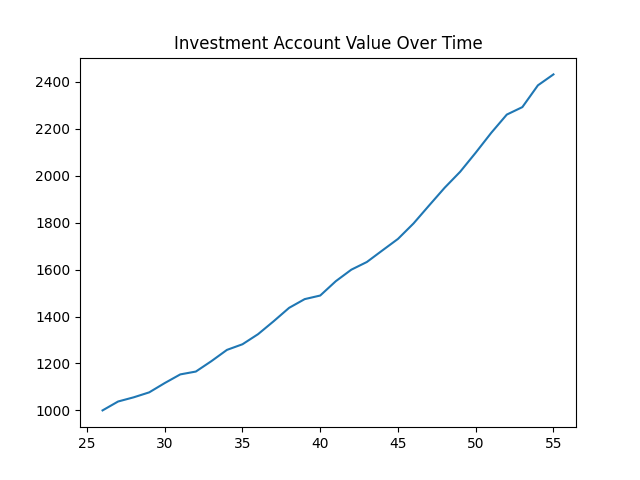
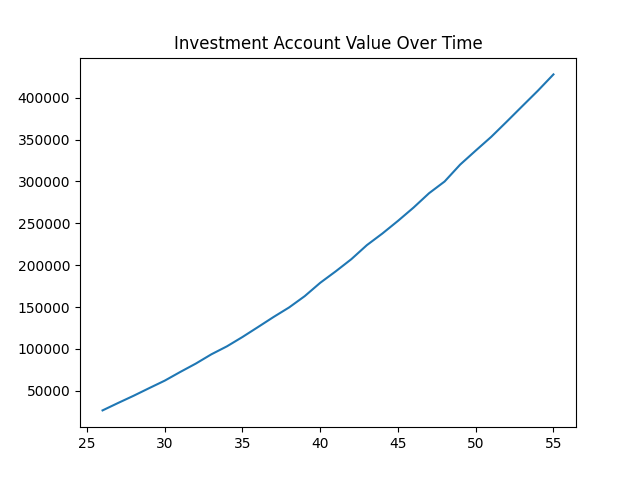
Added in logarithmic decay of investment return as you approach retirement. I have named this: progressive conservatism.

diff --git a/investment_accounts.py b/investment_accounts.py
@@ -1,4 +1,6 @@
 import numpy as np
+import matplotlib as mpl
+import matplotlib.pyplot as plt
 
 class investment_account:
 
@@ -7,13 +9,18 @@ class investment_account:
         self.principal = principal
         print("Initialized investment account named " + self.name )
 
-    def simulate(self, return_range, mean, std_dev, sim_length):
+    def simulate(self, principal_update, return_range, means, std_devs, sim_length):
         # the goal here is to implement monte carlo simulations eventually, but to get this running I just want to plug in some pretty simple exponential growth
 
         # assume the return range is normally distributed about the mean with given std_dev
-        return_by_year = np.random.normal(mean, std_dev, (sim_length, 1))
-        # min_return_range = return_range[0]
-        # max_return_range = return_range[1]
+        means_by_year, std_devs_by_year = self.model_progressive_conservatism(means, std_devs, sim_length)
+        return_by_year = np.zeros((sim_length,1))
+        for index in range(0, sim_length):
+            return_by_year[index] = np.random.normal(means_by_year[index], std_devs_by_year[index],1)
+        plt.figure()
+        plt.plot(np.arange(26,56,1), return_by_year)
+        plt.title("Investment Account Yearly Return Over Time")
+        plt.savefig("account_return_over_time.png")
 
         # just working with the minimum return range now, and I'll assume it's compounded continuously (most optimal)
         account_value = np.zeros((sim_length,1))
@@ -21,6 +28,18 @@ class investment_account:
             if index == 0:
                 account_value[index] = self.principal
             else:
-                account_value[index] = account_value[index-1] * (1 + return_by_year[index])
+                account_value[index] = principal_update[index-1] + account_value[index-1] * (1 + return_by_year[index])
 
         return account_value
+
+    def model_progressive_conservatism(self, means, std_devs, sim_length):
+        # I want something that will show that early in life we'll be more aggressive with our investments, so we get higher average return, but with larger standard deviations. As we get older, our investment straegy becomes more conservative, so our means and standard deviations become smaller
+        a = (means[0] - means[1])/(np.log(1/sim_length))
+        b = np.exp( (means[1]*np.log(1) - means[0]*np.log(sim_length)) / (means[0]-means[1]) )
+        out_means = a * np.log(b * np.arange(1,sim_length+1)) 
+
+        a = (std_devs[0] - std_devs[1])/(np.log(1/sim_length))
+        b = np.exp( (std_devs[1]*np.log(1) - std_devs[0]*np.log(sim_length)) / (std_devs[0]-std_devs[1]) )
+        out_std_devs = a * np.log(b * np.arange(1,sim_length+1)) 
+
+        return out_means, out_std_devs

diff --git a/main.py b/main.py
@@ -9,7 +9,7 @@ import numpy as np
 
 def main():
     print("Hello World!")
-    test_account = investment_account("401K", 1000)
+    test_account = investment_account("Roth IRA", 26658.70)
     jake = User("Jake", 26, 55)
 
     jake.set_salary(84000)
@@ -32,7 +32,8 @@ def main():
     plt.savefig("salary_over_time.png")
 
     # now try and simulate the growth of an investment account
-    account_value = test_account.simulate([0.03, 0.05], 0.03, 0.01, jake.retirement_age-jake.age+1)
+    principal_update_by_year = 6500*np.ones((jake.retirement_age-jake.age,1))
+    account_value = test_account.simulate(principal_update_by_year, [0.03, 0.05], [0.08, 0.03], [0.02, 0.005], jake.retirement_age-jake.age+1)
     plt.figure()
     plt.plot(age_range, account_value)
     plt.title("Investment Account Value Over Time")
